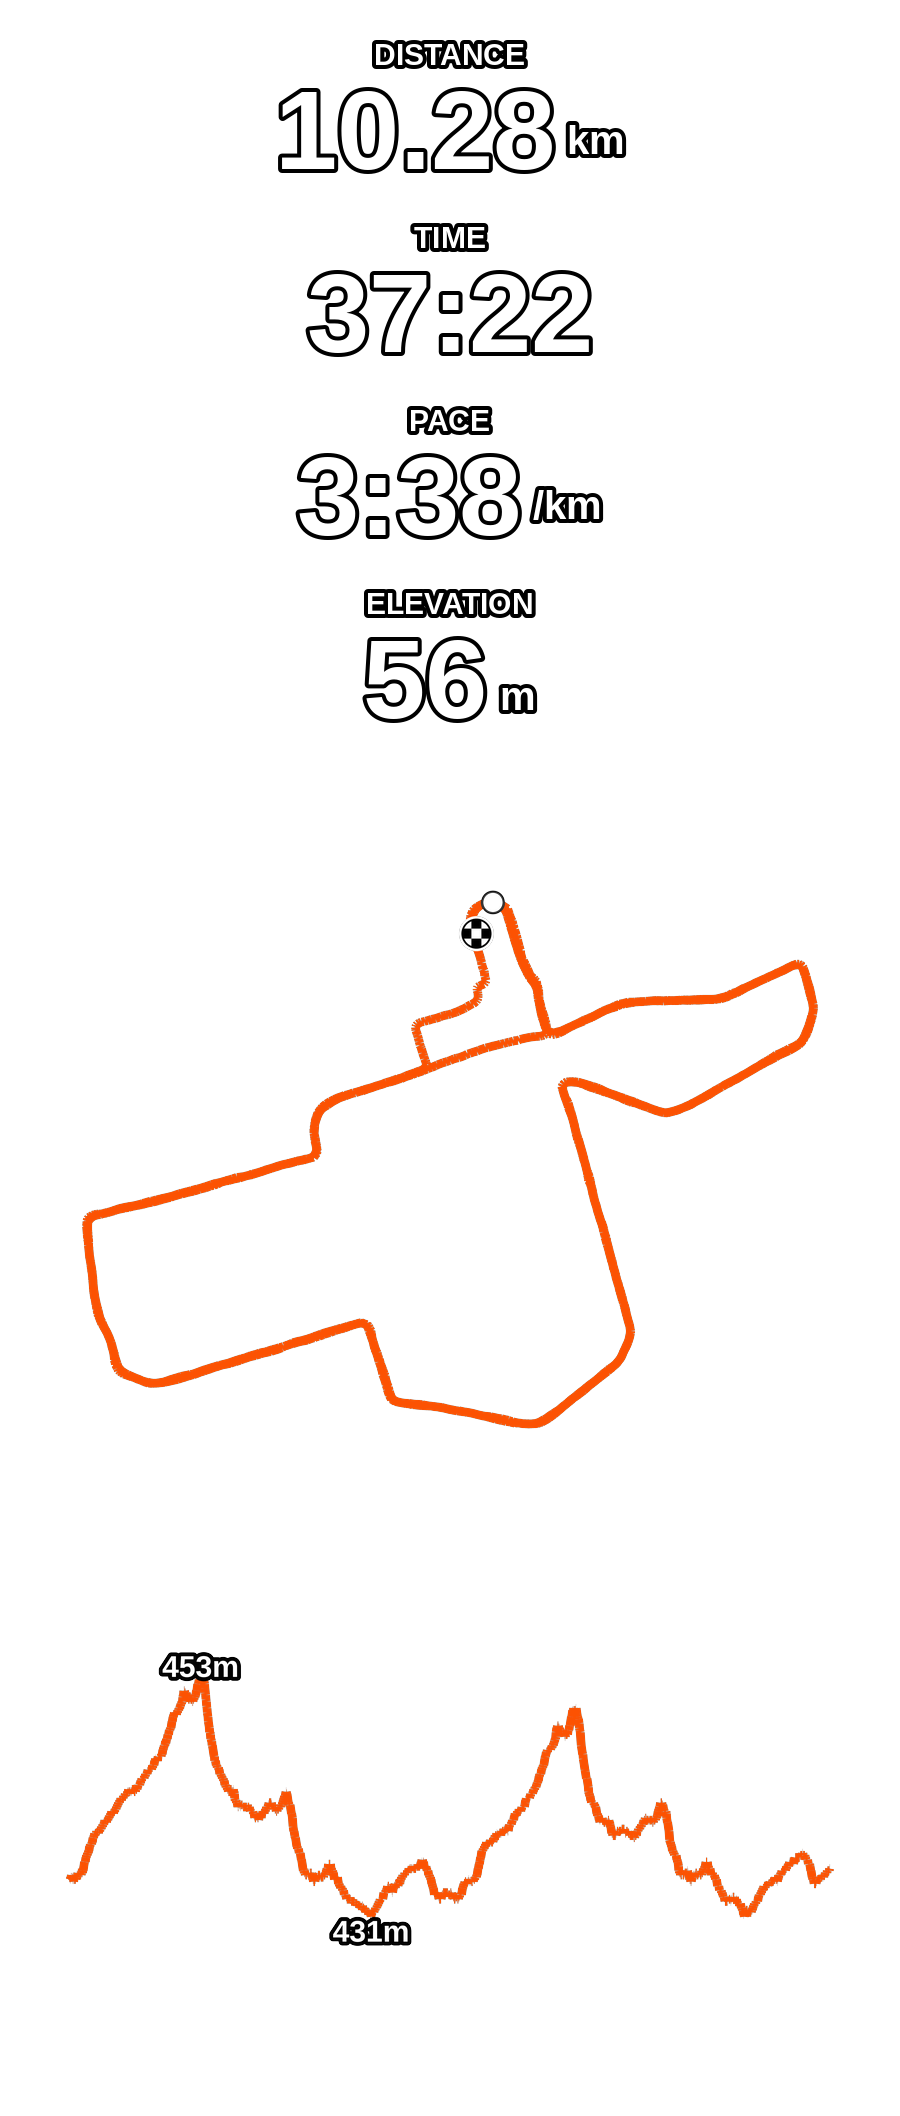
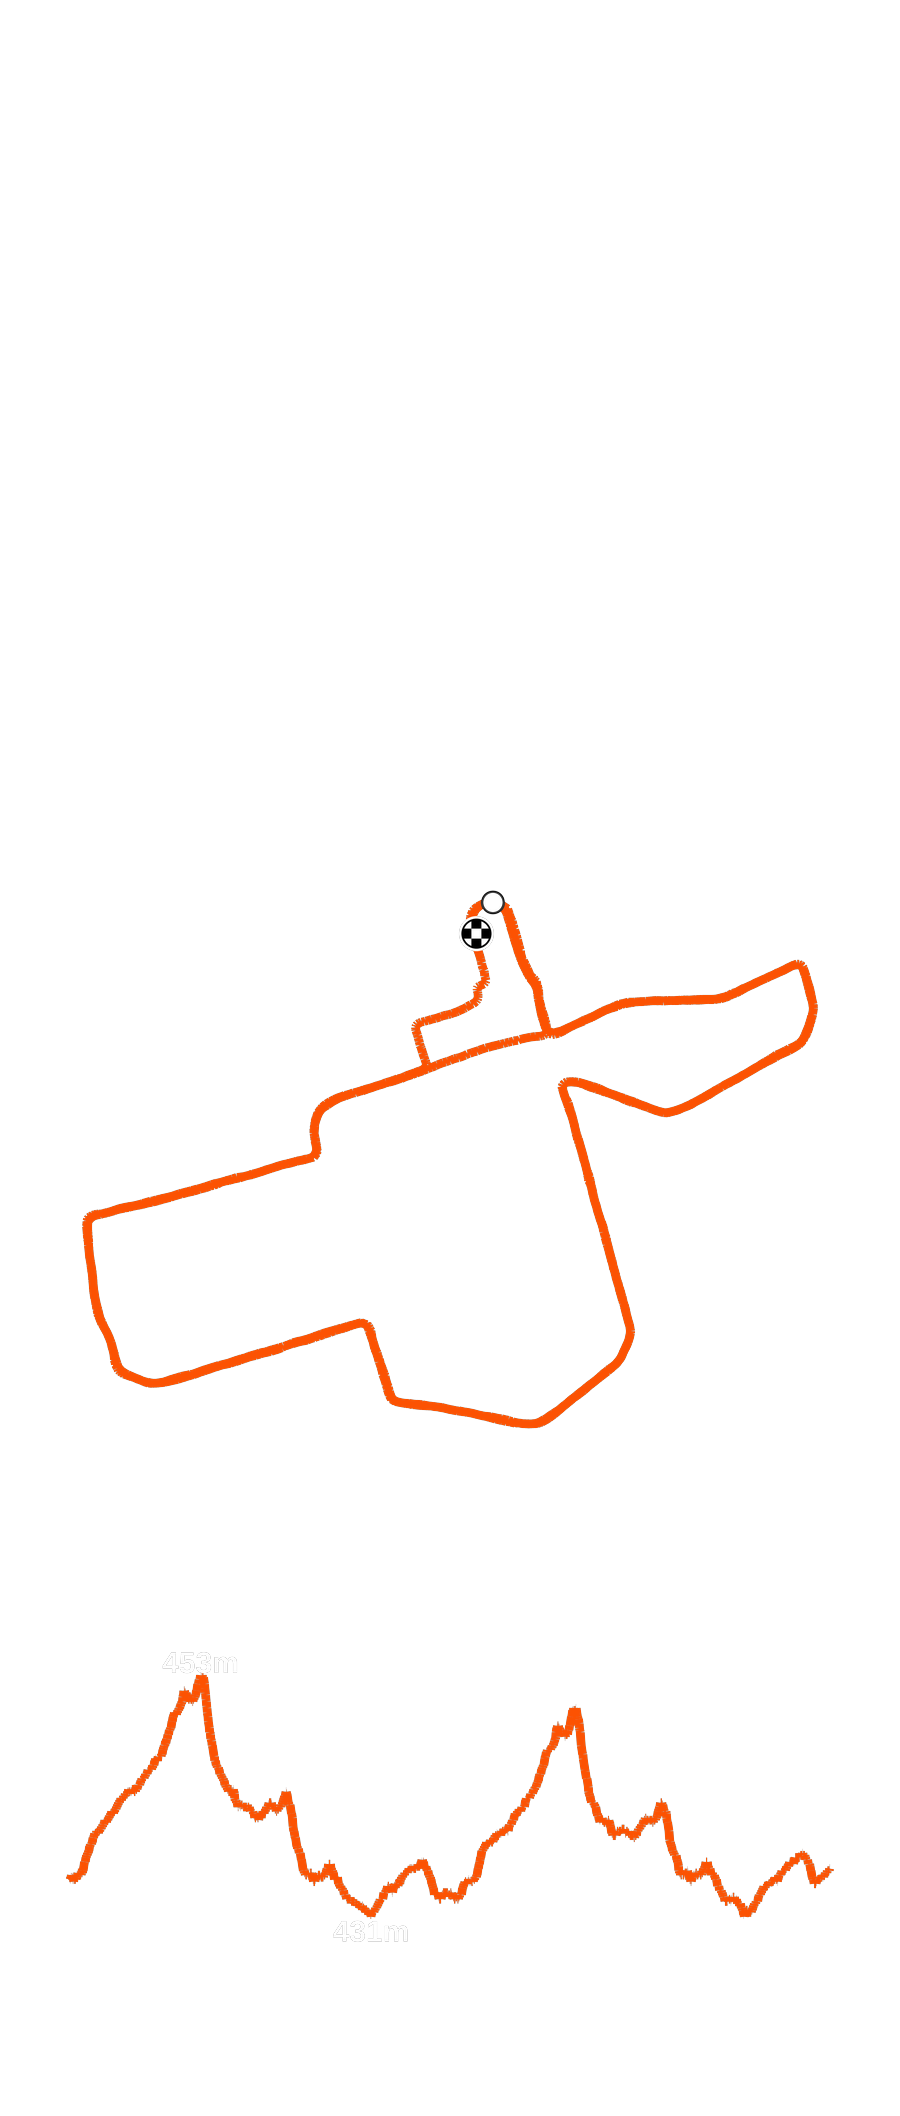
Give the race card 40 % of the photo and drop the outline
Increase the card to 40 % of the photo width and move it to the bottom left,
clear of the runner. The background is dark and even, so the card needs no
outline.

Add --outline as a second name for --outline-width, and state the outline of
each example in the README.

Changed region(s): [[0.3111, 0.0, 0.6844, 0.3431], [0.3733, 0.9045, 0.4667, 0.9357], [0.1867, 0.7798, 0.28, 0.811]]

diff --git a/examples/make_examples.py b/examples/make_examples.py
@@ -141,24 +141,32 @@ def fit_cover(img: Image.Image, size) -> Image.Image:
 
 
 def place(frame: Image.Image, card_path: Path, x_frac: float,
-          width_frac: float, y_frac: float = None) -> None:
+          width_frac: float, v_align: str = "center",
+          v_margin: float = 0.0) -> None:
     """Scale the card to a share of the frame width, then paste it.
 
-    x_frac is the left edge as a share of the frame width. y_frac is the top
-    edge; use None to centre the card.
+    x_frac is the left edge as a share of the frame width. v_align is "top",
+    "center", or "bottom". v_margin is the gap to the edge, as a share.
     """
     card = Image.open(card_path).convert("RGBA")
     w = max(1, round(frame.width * width_frac))
     h = max(1, round(card.height * w / card.width))
     card = card.resize((w, h), Image.LANCZOS)
-    y = (frame.height - h) // 2 if y_frac is None else round(frame.height * y_frac)
+    gap = round(frame.height * v_margin)
+    if v_align == "top":
+        y = gap
+    elif v_align == "bottom":
+        y = frame.height - h - gap
+    else:
+        y = (frame.height - h) // 2
     frame.alpha_composite(card, (round(frame.width * x_frac), max(0, y)))
 
 
 def write_setup(background: Path, size, card: Path, out: Path,
-                x_frac: float, width_frac: float, y_frac: float = None) -> None:
+                x_frac: float, width_frac: float, v_align: str = "center",
+                v_margin: float = 0.0) -> None:
     frame = fit_cover(Image.open(background).convert("RGB"), size).convert("RGBA")
-    place(frame, card, x_frac, width_frac, y_frac)
+    place(frame, card, x_frac, width_frac, v_align, v_margin)
     frame.convert("RGB").save(out, quality=82, optimize=True, progressive=True)
     print(f"wrote {out.relative_to(ROOT)}")
 
@@ -181,12 +189,13 @@ def main() -> None:
     # The card of a real 10 km race, from the FIT file of the watch.
     race_card = HERE / "race-card.png"
     render_card(HERE / "dagersheim-waldlauf.fit", race_card,
-                ["--width", "900", "--outline-width", "4"])
+                ["--width", "900", "--outline", "0"])
 
-    # The photo is 2:3. The left edge is free, so the card stays clear of the
-    # runner. The card is 25 % of the photo width.
+    # The photo is 2:3. The runner fills the centre and the right side, so the
+    # card sits low at the left edge, where the background is free.
     write_setup(BACKGROUNDS / "race-dagersheim.jpg", (2000, 3000), race_card,
-                HERE / "setup-race.jpg", x_frac=0.03, width_frac=0.25)
+                HERE / "setup-race.jpg", x_frac=0.02, width_frac=0.40,
+                v_align="bottom", v_margin=0.01)
 
 
 if __name__ == "__main__":

diff --git a/running-card.py b/running-card.py
@@ -34,6 +34,7 @@ All options:
     --width  N          canvas width  in pixels (default 1200 vertical, 3200 horizontal)
     --height N          canvas height in pixels (default auto)
     --outline-width PX  text outline width in pixels (default: 0; 0 disables)
+                        --outline does the same
     --ele-band M        elevation hysteresis band in metres (default 1.0, matches Garmin)
                         use ~8.0 to match Runalyze's more aggressive noise filtering
     --output PATH       output PNG path (default: input file name with .png ending)
@@ -918,7 +919,7 @@ def main():
                    choices=["v","h"], help="vertical (v) or horizontal (h) layout")
     p.add_argument("--width",    metavar="PX",    type=int, help="canvas width in pixels")
     p.add_argument("--height",   metavar="PX",    type=int, help="canvas height in pixels")
-    p.add_argument("--outline-width", metavar="PX", type=int, default=0,
+    p.add_argument("--outline-width", "--outline", metavar="PX", type=int, default=0,
                    help="text outline width in pixels (default: 0; 0 disables)")
     p.add_argument("--ele-band", metavar="M",     type=float, default=1.0,
                    dest="ele_band",
@@ -927,7 +928,7 @@ def main():
                    help="output PNG path (default: input file name with .png ending)")
     args = p.parse_args()
     if args.outline_width is not None and args.outline_width < 0:
-        p.error("--outline-width must be non-negative")
+        p.error("--outline must be non-negative")
 
     norm_points = None
     elevations = None

diff --git a/README.md b/README.md
@@ -32,9 +32,12 @@ side, clear of the runner.
 The card is the same PNG file, so it also goes into a video editor as an
 overlay. `make_examples.py` puts the card on the photo with Pillow.
 
-The example cards also use `--outline-width`. The outline keeps the text
-readable on a light background. On a photo, `--outline-width 0` gives the text
-without an edge.
+The two sample cards use `--outline-width`, so the white text stays readable on
+a white page. The race card uses the default, `--outline 0`, because the
+blurred photo behind it is dark and even. Add an outline when the background is
+light or busy.
+
+The option has two names: `--outline-width` and `--outline`.
 
 ### Files in `examples/`
 
@@ -133,7 +136,7 @@ python running-card.py my_run.fit --metric speed --width 1200
 | `--distance-source` | `gps`, `footpod` | `footpod` | Distance source for FIT files. |
 | `--pace-source` | `gps`, `footpod` | `footpod` | Pace source for FIT files. |
 | `--ele-band` | metres | `1.0` | Elevation hysteresis band. See the note below. |
-| `--outline-width` | pixels | `0` | Text outline width. `0` turns the outline off. |
+| `--outline-width`, `--outline` | pixels | `0` | Text outline width. `0` turns the outline off. |
 | `--output` | path | input name with `.png` | Output PNG path. |
 
 ## Elevation gain
